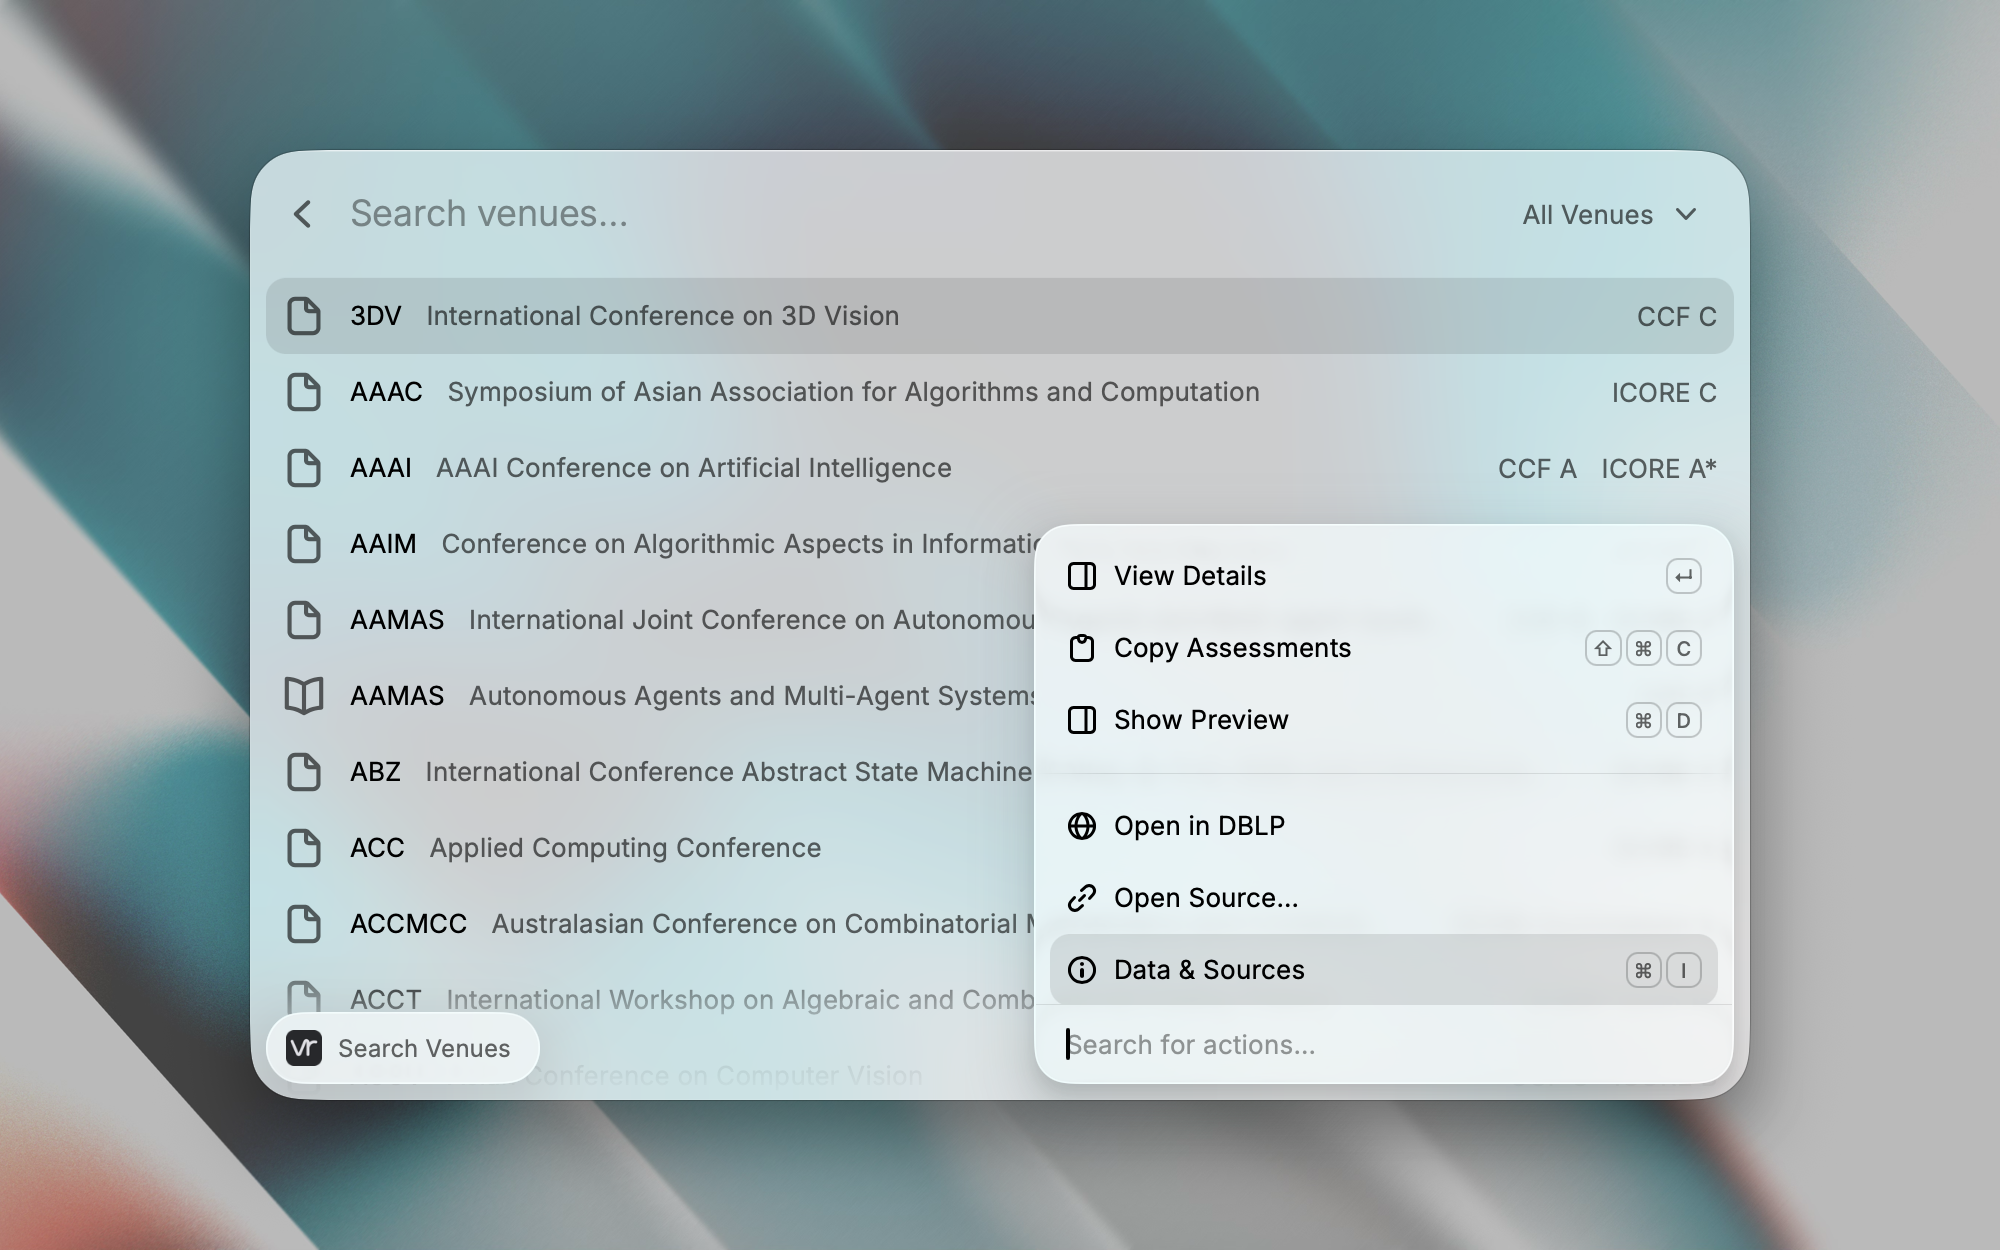
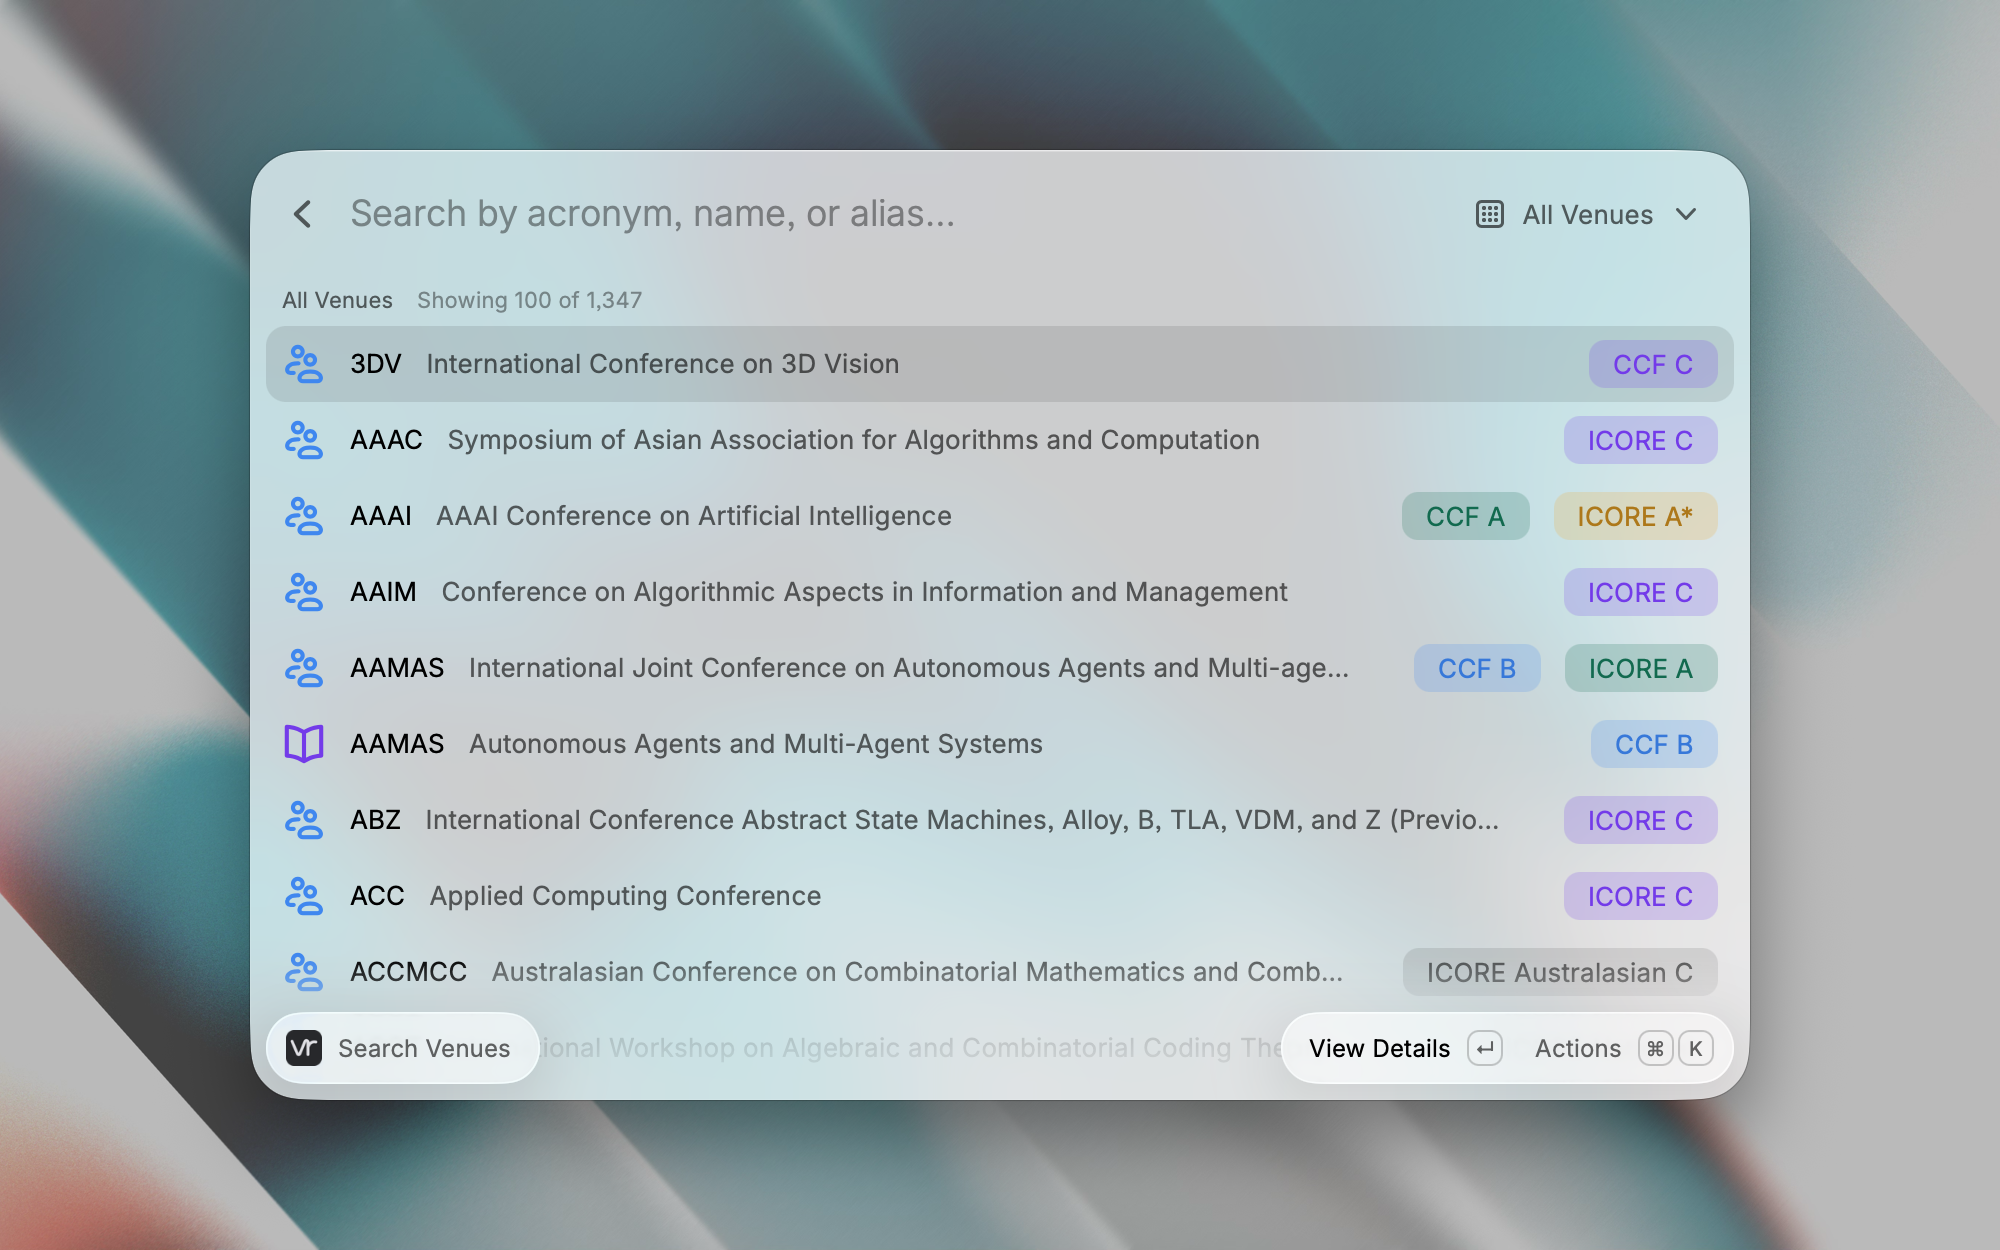
Enhance venue search functionality with improved UI elements and assessment color coding

Changed region(s): [[0.124, 0.2184, 0.868, 0.9048], [0.217, 0.156, 0.465, 0.1872], [0.744, 0.156, 0.775, 0.1872]]

diff --git a/apps/raycast/src/search-venues.tsx b/apps/raycast/src/search-venues.tsx
@@ -9,6 +9,22 @@ interface VenueViewProps {
   version: string
 }
 
+const venueStyles = {
+  conference: { name: "Conference", icon: { source: Icon.TwoPeople, tintColor: Color.Blue } },
+  journal: { name: "Journal", icon: { source: Icon.Book, tintColor: Color.Purple } },
+}
+
+function assessmentColor(value: string | undefined): Color {
+  // Only explicit grades receive a color. Other publisher labels retain a neutral appearance.
+  switch (value) {
+    case "A*": return Color.Yellow
+    case "A": return Color.Green
+    case "B": return Color.Blue
+    case "C": return Color.Purple
+    default: return Color.SecondaryText
+  }
+}
+
 function assessmentLabel(result: AssessmentResult): string {
   if (result.status === "assessed") return result.assessments.map(a => a.value).join(" / ")
   return { "not-listed": "Not listed", unknown: "Not verified", "not-applicable": "Not applicable" }[result.status]
@@ -28,7 +44,7 @@ function escapeMarkdown(value: string): string {
 
 function venueSummary(venue: Venue): string {
   const title = escapeMarkdown(venue.acronym || venue.name)
-  return venue.acronym ? `## ${title}\n\n${escapeMarkdown(venue.name)}` : `## ${title}`
+  return venue.acronym ? `# ${title}\n\n${escapeMarkdown(venue.name)}` : `# ${title}`
 }
 
 function referenceText({ venue, assessments, version }: VenueViewProps): string {
@@ -36,16 +52,19 @@ function referenceText({ venue, assessments, version }: VenueViewProps): string 
   return `${name}\n\n` + assessments.map(result => `${sourceTitle(result.source)}: ${assessmentLabel(result)}`).join("\n") + `\n\nDataset: ${version}`
 }
 
-function VenueMetadata({ venue, assessments }: Pick<VenueViewProps, "venue" | "assessments">) {
+function VenueMetadata({ venue, assessments, version }: VenueViewProps) {
+  const style = venueStyles[venue.type]
   return <Detail.Metadata>
+    <Detail.Metadata.Label title="Type" text={style.name} icon={style.icon} />
+    <Detail.Metadata.Separator />
     {assessments.map(result => result.status === "assessed"
       ? <Detail.Metadata.TagList key={result.source.id} title={sourceTitle(result.source)}>
-          {result.assessments.map((assessment, index) => <Detail.Metadata.TagList.Item key={`${assessment.area ?? ""}-${index}`} text={assessment.value} color={Color.SecondaryText} />)}
+          {result.assessments.map((assessment, index) => <Detail.Metadata.TagList.Item key={`${assessment.area ?? ""}-${index}`} text={assessment.value} color={assessmentColor(assessment.value)} />)}
         </Detail.Metadata.TagList>
-      : <Detail.Metadata.Label key={result.source.id} title={sourceTitle(result.source)} text={{ value: assessmentLabel(result), color: Color.SecondaryText }} />)}
+      : <Detail.Metadata.Label key={result.source.id} title={sourceTitle(result.source)} text={{ value: assessmentLabel(result), color: Color.SecondaryText }} icon={{ source: result.status === "unknown" ? Icon.QuestionMarkCircle : Icon.MinusCircle, tintColor: Color.SecondaryText }} />)}
     <Detail.Metadata.Separator />
-    <Detail.Metadata.Label title="Type" text={venue.type === "conference" ? "Conference" : "Journal"} />
     {venue.dblp && <Detail.Metadata.Link title="DBLP" target={venue.dblp} text="Open venue" />}
+    <Detail.Metadata.Label title="Dataset" text={{ value: version, color: Color.SecondaryText }} icon={{ source: Icon.Calendar, tintColor: Color.SecondaryText }} />
   </Detail.Metadata>
 }
 
@@ -61,17 +80,17 @@ function VenueActions(props: VenueViewProps & { showDetails?: boolean; showingPr
   const { venue, assessments, version } = props
   const context = { venue, assessments, version }
   return <ActionPanel>
-    <ActionPanel.Section>
-      {props.showDetails && <Action.Push title="View Details" icon={Icon.Sidebar} target={<VenueDetails {...context} />} />}
+    <ActionPanel.Section title="Venue">
+      {props.showDetails && <Action.Push title="View Details" icon={{ source: Icon.Sidebar, tintColor: Color.Blue }} target={<VenueDetails {...context} />} />}
       <Action.CopyToClipboard title="Copy Assessments" content={referenceText(context)} shortcut={{ modifiers: ["cmd", "shift"], key: "c" }} />
       {props.onTogglePreview && <Action title={props.showingPreview ? "Hide Preview" : "Show Preview"} icon={Icon.Sidebar} shortcut={{ modifiers: ["cmd"], key: "d" }} onAction={props.onTogglePreview} />}
     </ActionPanel.Section>
-    <ActionPanel.Section>
+    <ActionPanel.Section title="Sources">
       {venue.dblp && <Action.OpenInBrowser title="Open in DBLP" url={venue.dblp} />}
-      <ActionPanel.Submenu title="Open Source" icon={Icon.Link}>
+      <ActionPanel.Submenu title="Open Source" icon={{ source: Icon.Link, tintColor: Color.Purple }}>
         {assessments.map(result => <Action.OpenInBrowser key={result.source.id} title={sourceTitle(result.source)} url={result.assessments[0]?.url ?? result.source.publisherUrl} />)}
       </ActionPanel.Submenu>
-      <Action.Push title="Data & Sources" icon={Icon.Info} shortcut={{ modifiers: ["cmd"], key: "i" }} target={<SourceNotes {...context} />} />
+      <Action.Push title="Data & Sources" icon={{ source: Icon.Info, tintColor: Color.Blue }} shortcut={{ modifiers: ["cmd"], key: "i" }} target={<SourceNotes {...context} />} />
     </ActionPanel.Section>
   </ActionPanel>
 }
@@ -86,24 +105,32 @@ export default function SearchVenues() {
   const [type, setType] = useState("all")
   const [showingPreview, setShowingPreview] = useState(false)
   const results = catalog.search(query, { limit: 100, ...(type === "all" ? {} : { type: type as Venue["type"] }) })
-  return <List filtering={false} isShowingDetail={showingPreview} searchText={query} onSearchTextChange={setQuery} searchBarPlaceholder="Search venues…" searchBarAccessory={
+  const totalVenues = catalog.dataset.venues.filter(venue => type === "all" || venue.type === type).length
+  const sectionTitle = query.trim() ? "Search Results" : type === "all" ? "All Venues" : type === "conference" ? "Conferences" : "Journals"
+  const sectionSubtitle = query.trim() ? `Showing ${results.length} ${results.length === 1 ? "match" : "matches"}` : `Showing ${results.length} of ${totalVenues.toLocaleString("en-US")}`
+  return <List filtering={false} isShowingDetail={showingPreview} searchText={query} onSearchTextChange={setQuery} searchBarPlaceholder="Search by acronym, name, or alias…" searchBarAccessory={
     <List.Dropdown tooltip="Venue type" value={type} onChange={setType}>
-      <List.Dropdown.Item title="All Venues" value="all" />
-      <List.Dropdown.Item title="Conferences" value="conference" />
-      <List.Dropdown.Item title="Journals" value="journal" />
+      <List.Dropdown.Item title="All Venues" value="all" icon={{ source: Icon.AppWindowGrid3x3, tintColor: Color.SecondaryText }} />
+      <List.Dropdown.Item title="Conferences" value="conference" icon={venueStyles.conference.icon} />
+      <List.Dropdown.Item title="Journals" value="journal" icon={venueStyles.journal.icon} />
     </List.Dropdown>
   }>
-    <List.EmptyView icon={Icon.MagnifyingGlass} title="No Matching Venues" description="Try another name or change the venue filter." />
-    {results.map(({ venue }) => {
-      const assessments = catalog.getAssessments(venue.id)
-      const props = { venue, assessments, version: catalog.dataset.version }
-      const subtitle = !showingPreview && venue.acronym ? { subtitle: { value: venue.name, tooltip: venue.name } } : {}
-      return <List.Item key={venue.id} id={venue.id} title={{ value: venue.acronym || venue.name, tooltip: venue.name }} {...subtitle}
-        icon={{ source: venue.type === "journal" ? Icon.Book : Icon.Document, tintColor: Color.SecondaryText }}
-        accessories={showingPreview ? [] : assessments.filter(result => result.status === "assessed").map(result => ({ text: `${sourceName(result.source)} ${assessmentLabel(result)}`, tooltip: `${sourceTitle(result.source)}: ${assessmentLabel(result)}` }))}
-        detail={<List.Item.Detail markdown={venueSummary(venue)} metadata={<VenueMetadata {...props} />} />}
-        actions={<VenueActions {...props} showDetails showingPreview={showingPreview} onTogglePreview={() => setShowingPreview(value => !value)} />}
-      />
-    })}
+    <List.EmptyView icon={{ source: Icon.MagnifyingGlass, tintColor: Color.Blue }} title="No Matching Venues" description="Try an acronym such as SIGCOMM or TKDE, or change the venue filter." />
+    <List.Section title={sectionTitle} subtitle={sectionSubtitle}>
+      {results.map(({ venue }) => {
+        const assessments = catalog.getAssessments(venue.id)
+        const props = { venue, assessments, version: catalog.dataset.version }
+        const subtitle = !showingPreview && venue.acronym ? { subtitle: { value: venue.name, tooltip: venue.name } } : {}
+        return <List.Item key={venue.id} id={venue.id} title={{ value: venue.acronym || venue.name, tooltip: venue.name }} {...subtitle}
+          icon={venueStyles[venue.type].icon}
+          accessories={showingPreview ? [] : assessments.filter(result => result.status === "assessed").map(result => ({
+            tag: { value: `${sourceName(result.source)} ${assessmentLabel(result)}`, color: result.assessments.length === 1 ? assessmentColor(result.assessments[0]?.value) : Color.SecondaryText },
+            tooltip: `${sourceTitle(result.source)}: ${assessmentLabel(result)}. Each list uses its own scale.`,
+          }))}
+          detail={<List.Item.Detail markdown={venueSummary(venue)} metadata={<VenueMetadata {...props} />} />}
+          actions={<VenueActions {...props} showDetails showingPreview={showingPreview} onTogglePreview={() => setShowingPreview(value => !value)} />}
+        />
+      })}
+    </List.Section>
   </List>
 }

diff --git a/apps/raycast/README.md b/apps/raycast/README.md
@@ -6,6 +6,10 @@ Venue Rank searches computer science conferences and journals by acronym, full n
 
 Open **Search Venues** and type a venue name, such as `SIGCOMM`, `AAAI`, or `TKDE`. You can filter conferences and journals with the dropdown.
 
+Blue people icons identify conferences, and purple book icons identify journals. Assessment badges retain the source name and use yellow for A*, green for A, blue for B, and purple for C. Other publisher labels remain neutral. Each ranking list uses its own scale, so matching colors do not establish equivalent assessments across lists.
+
+The list header shows how many venues are displayed, with up to 100 results per search. The detail view and optional split preview use the same badge colors and show the dataset version alongside the source editions.
+
 - You can press Return to open the selected venue’s details.
 - You can press Command-D to toggle the split preview.
 - You can press Command-Shift-C to copy the assessments and dataset version.
@@ -14,17 +18,9 @@ Open **Search Venues** and type a venue name, such as `SIGCOMM`, `AAAI`, or `TKD
 
 ## Screenshots
 
-The list keeps venue names and assessments together.
+The stored screenshot shows the earlier interface before the color and metadata updates. An updated native screenshot has not yet been captured.
 
-![Venue search results.](media/list.jpg)
-
-The detail view shows each source and edition.
-
-![Venue details.](media/detail.jpg)
-
-The optional preview shows details alongside the search results.
-
-![The split preview.](media/preview.jpg)
+![The earlier venue list and action panel.](metadata/venue-rank-raycast-1.png)
 
 ## Assessment coverage
 
